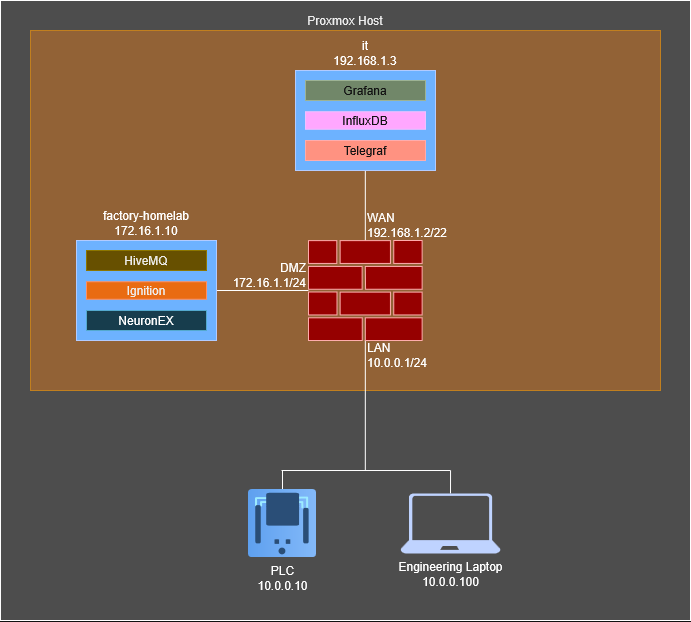
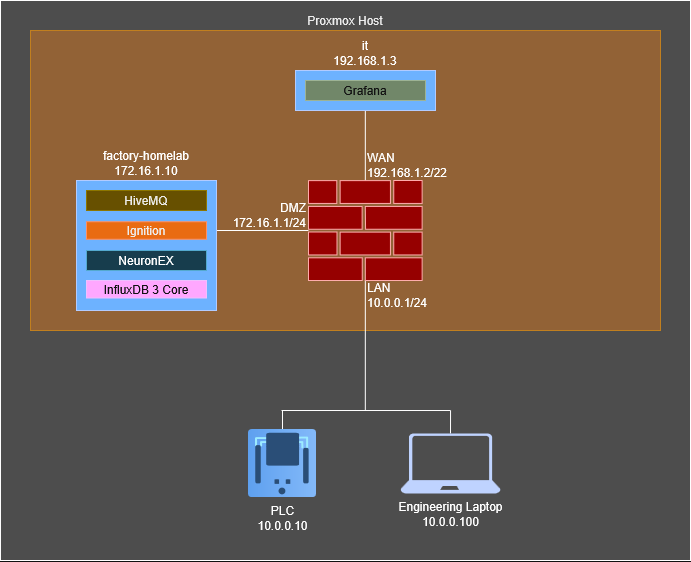
updated network diagram and started next article

diff --git a/_posts/2026-07-22-ot-lab-build-uns.md b/_posts/2026-07-22-ot-lab-build-uns.md
@@ -2,7 +2,7 @@
 layout: post
 title: "OT Homelab Build - UNS"
 subtitle: "The truth, the whole truth, and nothing but the truth!"
-date: 2000-07-22
+date: 2026-07-22
 description: "Building the Unified Namespace (UNS) system for the OT Homelab."
 ---
 
@@ -72,7 +72,7 @@ One of the obvious downsides is that you can't read it straight out the box like
 
 > Why are you using JSON instead of Sparkplug B?
 
-For simplicity and compatibility. Using standard MQTT with JSON payloads is much more simple than Sparkplug B, and much more widely supported by different systems. I will explore Sparkplug B for homelabs in later articles.
+For simplicity and compatibility. Using standard MQTT with JSON payloads is much more simple than Sparkplug B, and much more widely supported by different systems. My historian doesn't support it out of the box but I will explore Sparkplug B for homelabs in later articles.
 
 Now we have some background, lets look at how we actually deploy this.
 

diff --git a/_posts/2026-07-29-ot-lab-build-scada-historian.md b/_posts/2026-07-29-ot-lab-build-scada-historian.md
@@ -1,7 +1,7 @@
 ---
 layout: post
 title: "OT Homelab Build - SCADA and Historian"
-subtitle: "Supervise, Control, Acquire, Remember"
+subtitle: "Supervise, Control, Acquire - and Remember!"
 date: 2026-07-29
 description: "Building the SCADA and Historian System system for the OT Homelab."
 ---
@@ -9,7 +9,10 @@ description: "Building the SCADA and Historian System system for the OT Homelab.
 ## Goals
 ## What is SCADA?
 ## What is a Historian?
-## Modbus v OPC-UA
 ## Systems
-### SCADA
-### Historian
+### SCADA (Ignition)
+#### Connecting to the PLC
+#### Why not UNS?
+### Historian (InfluxDB 3 Core)
+#### Connecting to UNS
+## Why OPC-UA over Modbus for SCADA?

diff --git a/_posts/2026-07-08-ot-lab-design.md b/_posts/2026-07-08-ot-lab-design.md
@@ -90,7 +90,7 @@ This is to mirror what is commonly found in industrial networks, where the OT ne
 Good question, and you totally could. I might even do that in the future. In reality, it depends on your company, past network design decisions, and business requirements. There's never a 'one-size-fits-all' for network design - it will *always* be at the behest of the business, even if it's unwise.
 
 ### Diagram
-![Network Diagram](/blog/res/ot-lab-network-diagram.png) UPDATE ME!!!!!!!!!!
+![Network Diagram](/blog/res/ot-lab-network-diagram.png)
 
 ## The Systems
 ### Factory/OT
